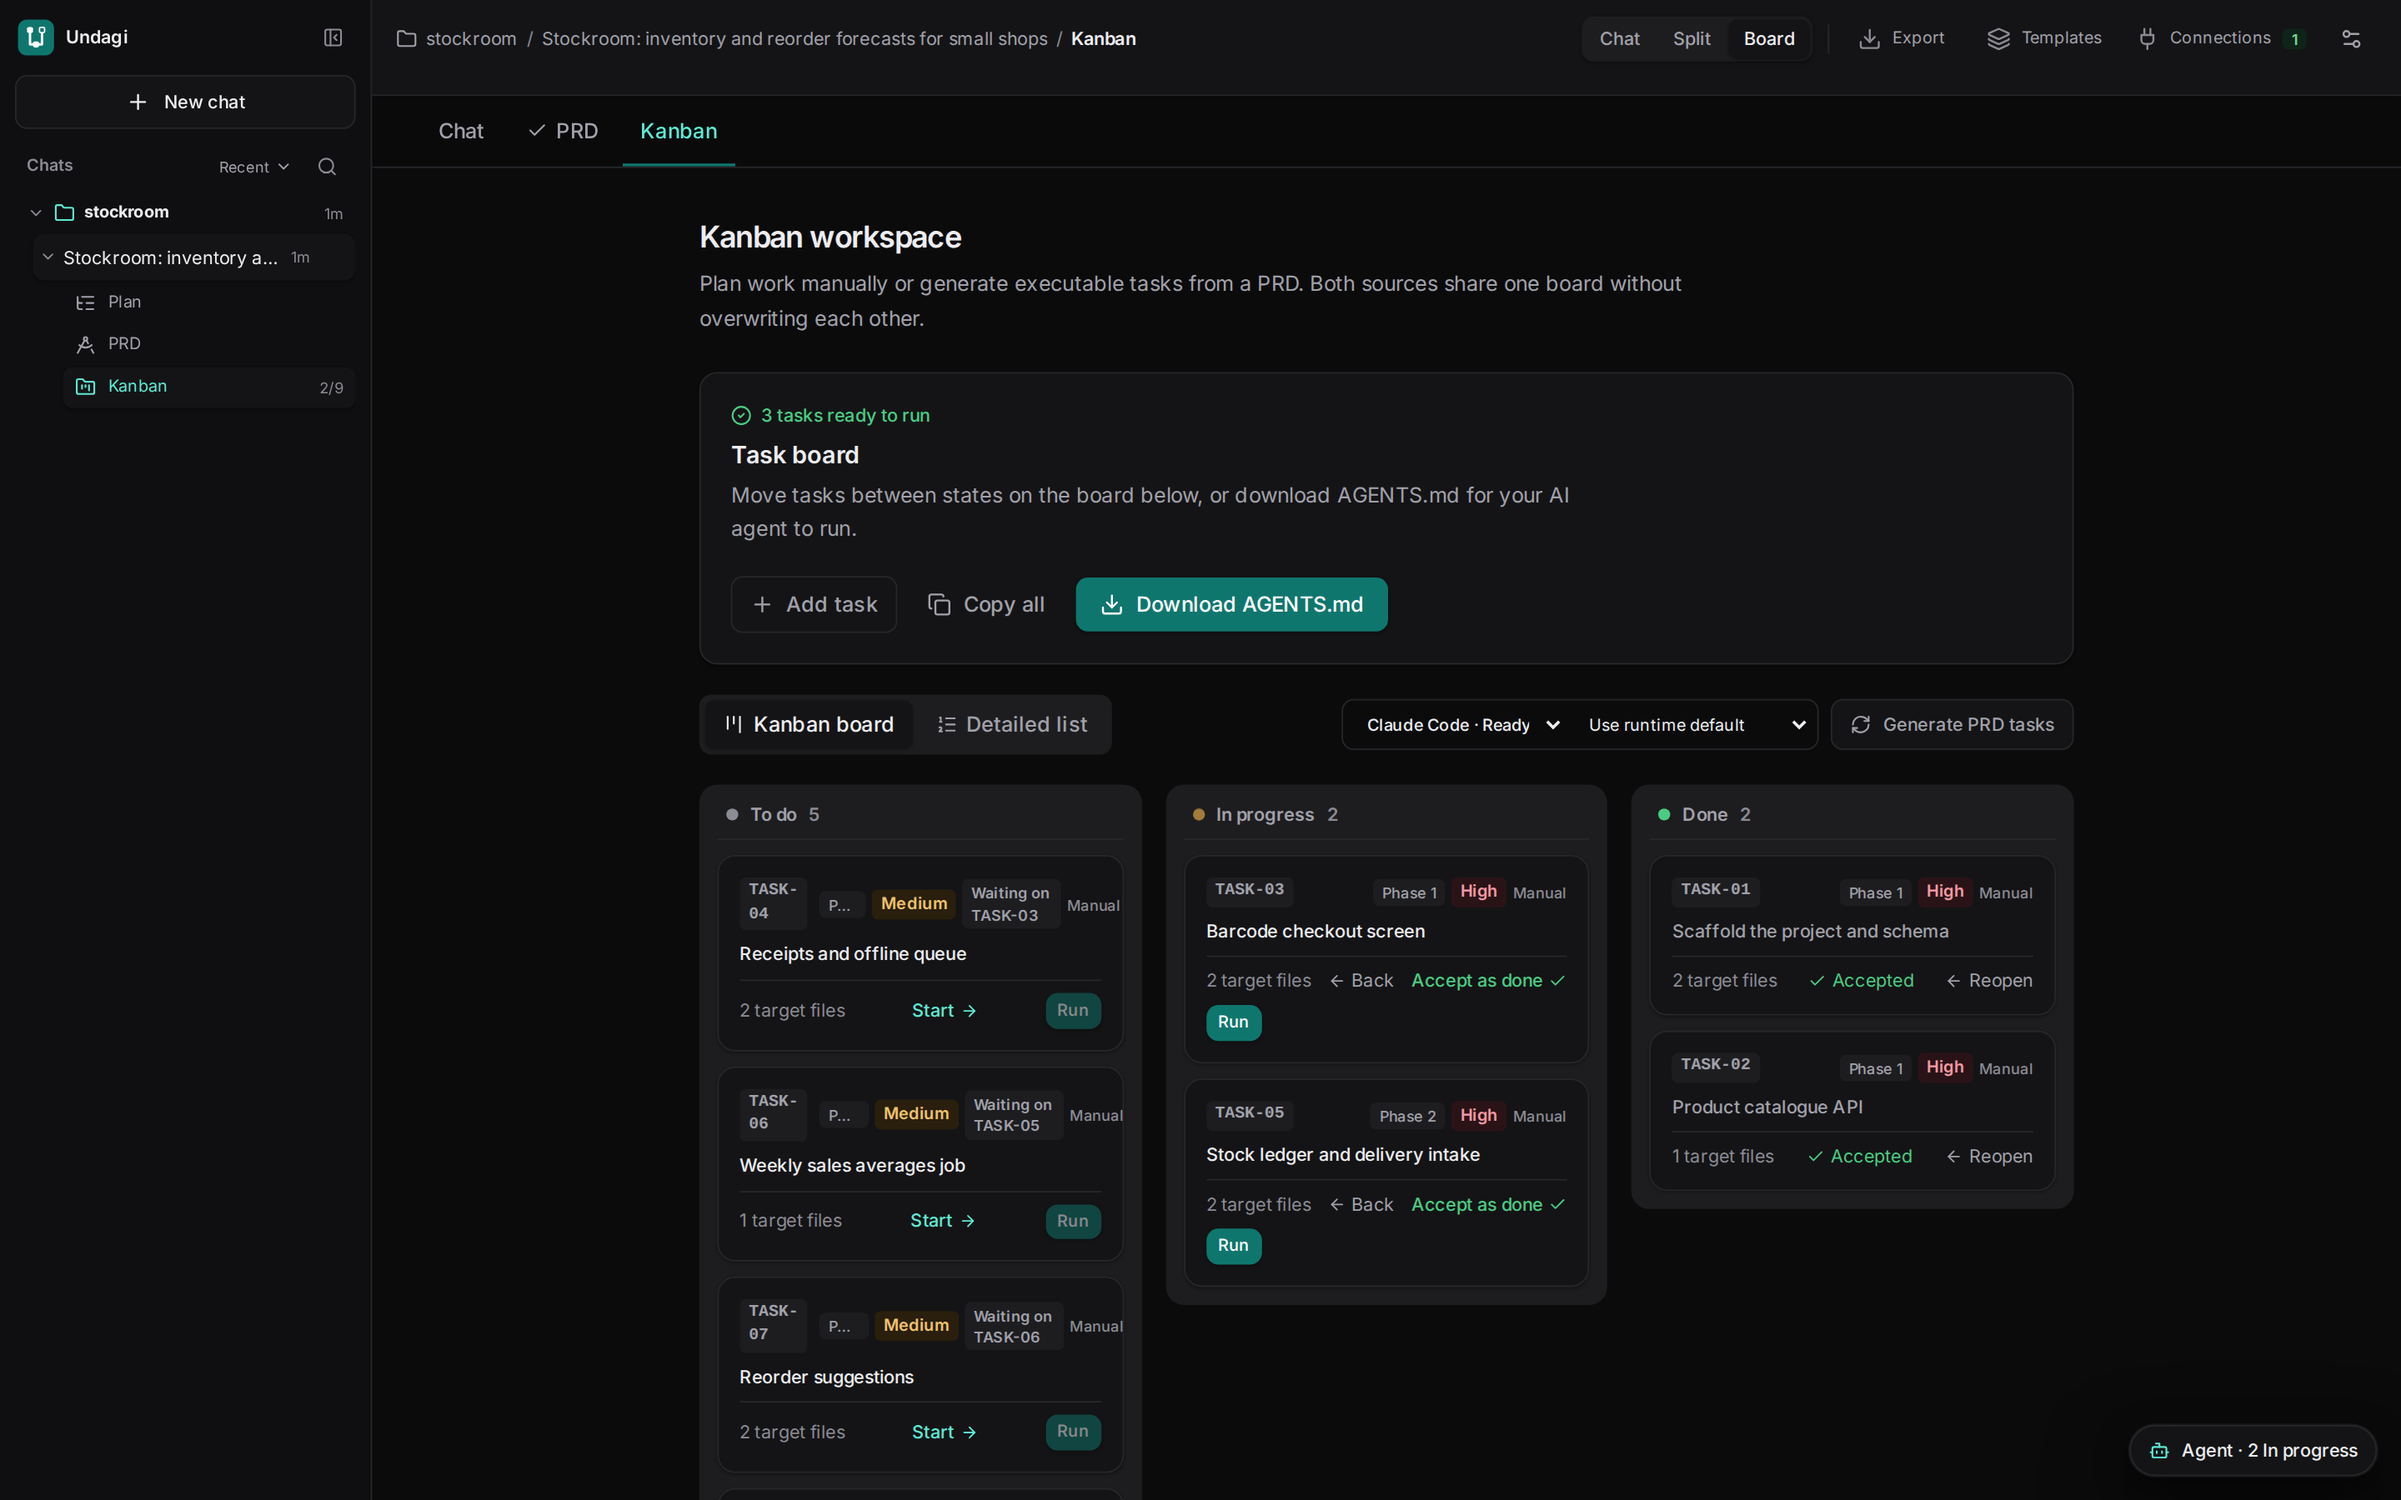
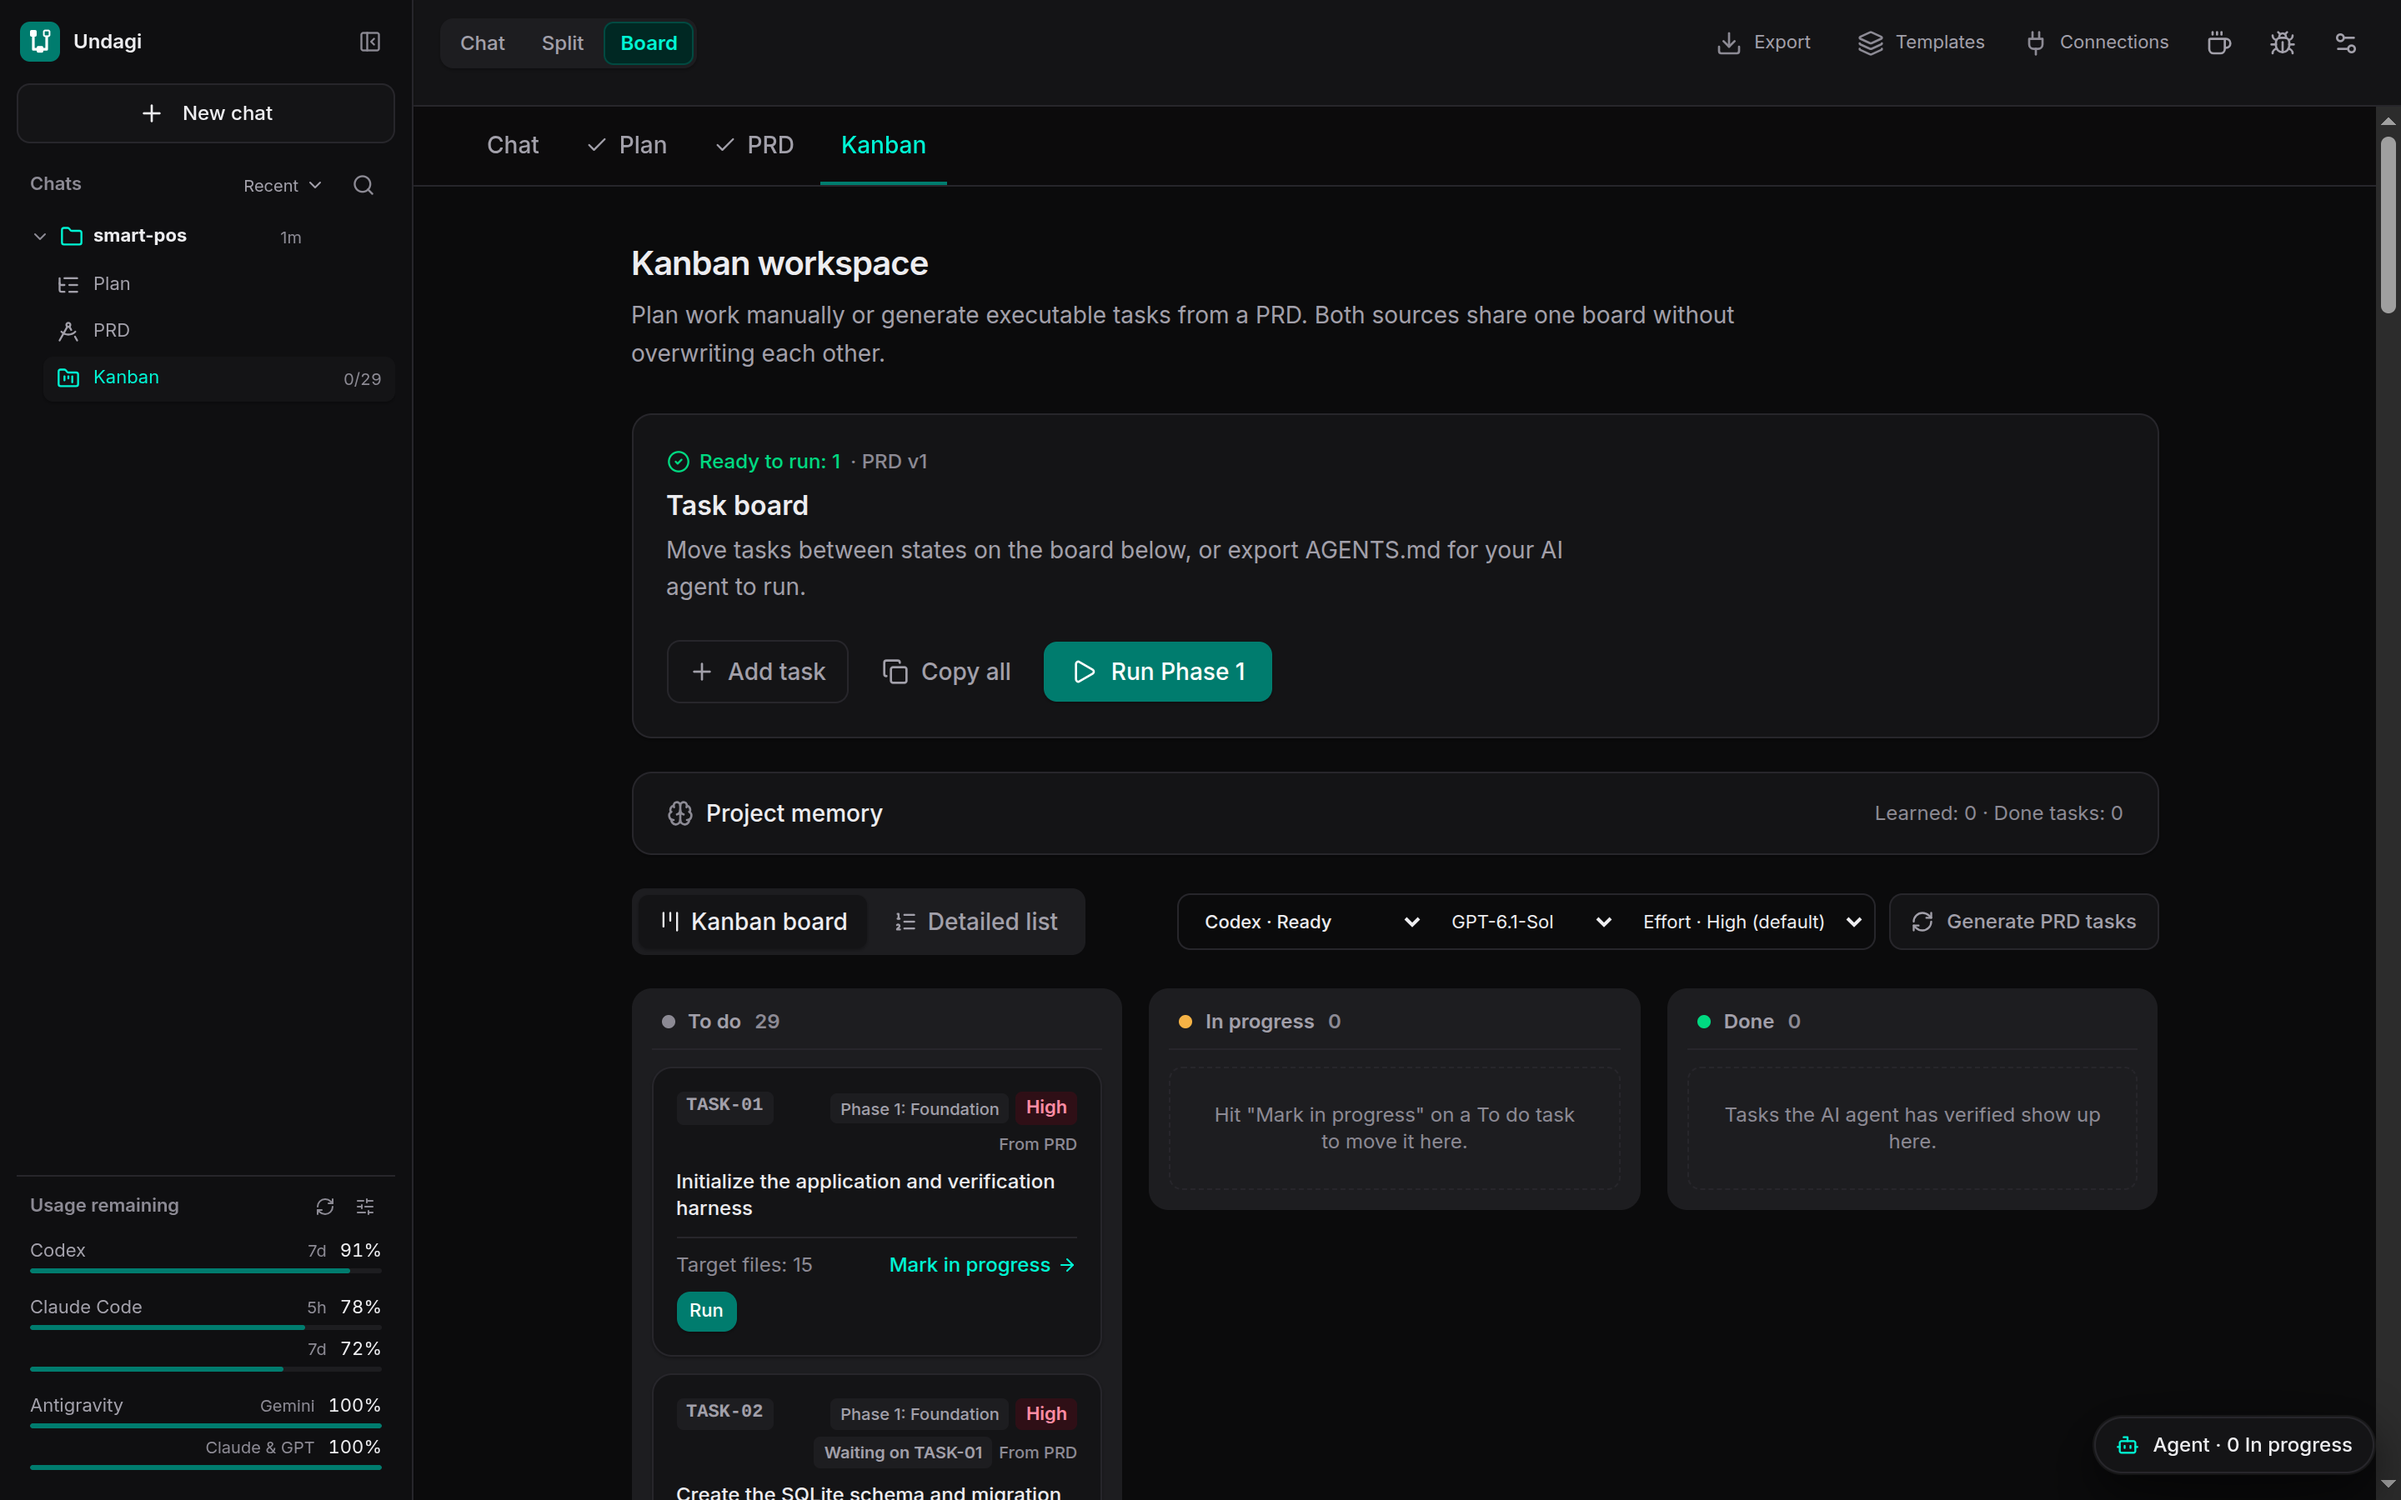
docs: show what changed since 1.0.3-beta on the landing page
Describes the PRD the way it is written now (goals and metrics, target users,
non-goals, acceptance criteria, risks), the phase-by-phase board run, and adds
a "Day to day" section: one project per folder shared by many chats, running a
phase, syncing the board without losing started cards, and the remaining usage
of each connected subscription. A card without a verify command is now
described as Unverified instead of saying Undagi never runs verification.

The four screenshots come from a real project generated with Codex (a small
shop POS: 29 tasks, Run Phase 1, the usage panel in the sidebar). The nav
links stay on one line and hide below 900 px; the release link points to
1.0.4-beta.

diff --git a/docs/index.html b/docs/index.html
@@ -111,7 +111,7 @@ nav.scrolled { border-bottom-color: var(--line); }
   box-shadow: var(--elev-1);
 }
 .nav-sp { flex: 1; }
-.nav-link { color: var(--muted); text-decoration: none; font-size: 14px; font-weight: 500; padding: 6px 2px; transition: color var(--dur) var(--ease); }
+.nav-link { color: var(--muted); text-decoration: none; font-size: 14px; font-weight: 500; padding: 6px 2px; white-space: nowrap; transition: color var(--dur) var(--ease); }
 .nav-link:hover { color: var(--ink); }
 .icon-btn {
   width: 34px; height: 34px; display: grid; place-items: center; cursor: pointer;
@@ -121,7 +121,8 @@ nav.scrolled { border-bottom-color: var(--line); }
 }
 .icon-btn:hover { color: var(--ink); transform: translateY(-1px); box-shadow: var(--elev-2); }
 .icon-btn:active { transform: translateY(0) scale(.97); }
-@media (max-width: 720px) { .nav-hide { display: none; } }
+/* Six section links fit from about 900px; below that only GitHub and the theme toggle stay. */
+@media (max-width: 900px) { .nav-hide { display: none; } }
 
 /* ---------- hero ---------- */
 header.hero { position: relative; padding: 88px 0 0; overflow: hidden; }
@@ -335,6 +336,7 @@ table.cmp { border-collapse: collapse; width: 100%; min-width: 760px; font-size:
     <a class="brand" href="#top"><span class="mark"><svg viewBox="0 0 100 100" width="22" height="22" fill="currentColor" aria-hidden="true"><path d="M30 25V73H70V35" fill="none" stroke="currentColor" stroke-width="8" stroke-linejoin="round"/><rect x="20" y="15" width="20" height="20" rx="5"/><rect x="40" y="63" width="20" height="20" rx="5"/><rect x="61.5" y="16.5" width="17" height="17" rx="4" fill="none" stroke="currentColor" stroke-width="5"/></svg></span> Undagi</a>
     <span class="nav-sp"></span>
     <a class="nav-link nav-hide" href="#how">How it works</a>
+    <a class="nav-link nav-hide" href="#daily">Day to day</a>
     <a class="nav-link nav-hide" href="#compare">Compare</a>
     <a class="nav-link nav-hide" href="#models">Models</a>
     <a class="nav-link nav-hide" href="#trust">Boundaries</a>
@@ -377,7 +379,7 @@ table.cmp { border-collapse: collapse; width: 100%; min-width: 760px; font-size:
     <div class="shot" id="heroShot">
       <img class="themed" data-light="assets/board-light.png" data-dark="assets/board-dark.png"
            src="assets/board-dark.png"
-           alt="Undagi kanban workspace: nine generated tasks across To do, In progress and Done, each with an ID, phase, priority and target file count, plus a Download AGENTS.md button."
+           alt="Undagi's board for a small-shop POS project: a Run Phase 1 button, project memory, and 29 generated tasks with IDs, phases, priorities and dependencies. The sidebar shows the folder's Plan, PRD and Kanban, and the remaining usage of Codex, Claude Code and Antigravity."
            width="2880" height="1800" />
     </div>
   </div>
@@ -426,12 +428,14 @@ table.cmp { border-collapse: collapse; width: 100%; min-width: 760px; font-size:
       <div class="step">
         <span class="idx">STEP 02</span>
         <h3>PRD</h3>
-        <p>The approved plan becomes a seven-point requirements document you can actually edit:</p>
+        <p>The approved plan becomes a PRD written the way product teams write one, sized to a first release:</p>
         <ul>
-          <li>Requirements and features by phase</li>
-          <li>User flow and architecture</li>
-          <li>Database schema and tech stack</li>
-          <li>Structured view, raw fields, or Markdown</li>
+          <li>Goals and success metrics, target users</li>
+          <li>Scope and release plan, with non-goals</li>
+          <li>Requirements as user stories with acceptance criteria</li>
+          <li>Assumptions, risks and open questions</li>
+          <li>For the coding agent: architecture, data model, tech stack</li>
+          <li>Edit it as a structured view, raw fields, or Markdown</li>
         </ul>
       </div>
       <div class="step">
@@ -442,10 +446,11 @@ table.cmp { border-collapse: collapse; width: 100%; min-width: 760px; font-size:
           <li>Stable ID, priority, phase</li>
           <li>Target files and dependencies</li>
           <li>Instructions and verification steps</li>
-          <li>Run it here: the card moves to Done or Blocked, with the agent's note</li>
+          <li>Run one card, or a whole phase with one button, in dependency order</li>
+          <li>The card moves to Done or Blocked, with the agent's note</li>
           <li>A verify command per card: Done is marked Verified once it exits 0, or Unverified when nothing checked it</li>
           <li>Each run starts with what earlier tasks left behind: their notes and the facts agents learned</li>
-          <li>Export as <code>AGENTS.md</code></li>
+          <li>Export <code>AGENTS.md</code>, the plan, the PRD or a handoff bundle: one file, or several as a .zip</li>
         </ul>
       </div>
     </div>
@@ -453,10 +458,67 @@ table.cmp { border-collapse: collapse; width: 100%; min-width: 760px; font-size:
     <figure>
       <div class="shot"><img class="themed" data-light="assets/plan-light.png" data-dark="assets/plan-dark.png"
            src="assets/plan-light.png"
-           alt="The generated plan for a small-shop inventory app: a summary, a model picker with a Continue to the PRD button, and an interactive feature-structure diagram."
+           alt="The generated plan for a small-shop POS and inventory app: a first-release summary, a model picker with a Continue to the PRD button, and an interactive feature-structure diagram."
            width="2880" height="1800" loading="lazy" /></div>
       <figcaption>The plan step — an editable summary and feature structure you review before the PRD.</figcaption>
     </figure>
+  </div>
+</section>
+
+<section id="daily">
+  <div class="wrap">
+    <p class="kicker">Day to day</p>
+    <h2>Built for coming back tomorrow.</h2>
+    <p class="section-lede">
+      A plan is only useful if the next session can pick it up. Undagi keeps the project with the
+      folder, runs the board a phase at a time, and lets you change the plan without losing what is
+      already done.
+    </p>
+
+    <div class="grid2">
+      <div class="tile">
+        <h3>One folder, one project, any number of chats</h3>
+        <p>
+          A folder holds one project: its plan, PRD, board and memory. Every chat you open in it reads
+          the same board and memory, so tomorrow's chat carries on with the phase left unfinished.
+          Deleting a chat removes its messages; the project stays until you delete it on purpose.
+        </p>
+      </div>
+      <div class="tile">
+        <h3>Run a phase, not a prompt</h3>
+        <p>
+          <b>Run Phase 1</b> runs that phase's To do cards one at a time, each once its dependencies are
+          done, each in its own session with retries and its verify command. The run stops at the first
+          card that does not end Done, so nothing builds on a failure, and you check the phase before
+          the next one starts.
+        </p>
+        <p>
+          Ask the chat to work on the tasks and it starts the same run, because every chat turn sees the
+          board with its cards, status and dependencies.
+        </p>
+      </div>
+      <div class="tile">
+        <h3>Change the plan without losing the work</h3>
+        <p>
+          Syncing the board to a new PRD replaces only cards still in To do. A card that is running or
+          Done keeps its note, its Verified label and its place, and so does any card you added. The
+          new tasks are told which cards stay, so they do not repeat that work. You see how many cards
+          are replaced and kept before anything changes.
+        </p>
+      </div>
+      <div class="tile">
+        <h3>See what is left of your plan</h3>
+        <p>
+          The sidebar shows the remaining usage of each subscription you have connected: Claude Code's
+          five-hour and weekly windows, Codex's limits, and Antigravity's per model group. Each is read
+          through that CLI's own usage request, which sends no prompt and spends no quota. A read that
+          fails keeps showing the last one, marked as not refreshed.
+        </p>
+        <div class="chips">
+          <span class="chip">Claude Code</span><span class="chip">Codex</span><span class="chip">Antigravity</span>
+        </div>
+      </div>
+    </div>
   </div>
 </section>
 
@@ -502,7 +564,7 @@ table.cmp { border-collapse: collapse; width: 100%; min-width: 760px; font-size:
         <li>Packaged installers are for Windows, Linux and Apple Silicon Macs, and none carries a verified publisher signature; on a Mac the first launch needs Open Anyway in Privacy &amp; Security.</li>
         <li>It plans a new project from an idea. It does not analyse an existing codebase to plan changes to it.</li>
         <li>No parallel agents, git worktrees or pull-request loop.</li>
-        <li>A task counts as Done when the agent says so. Undagi does not run the verification steps itself.</li>
+        <li>A card without a verify command counts as Done when the agent says so; it is labelled Unverified.</li>
         <li>Approvals and path checks are not an OS sandbox. &ldquo;Full access&rdquo; means you trust the agent.</li>
       </ul>
     </div>
@@ -650,7 +712,7 @@ table.cmp { border-collapse: collapse; width: 100%; min-width: 760px; font-size:
       <p>
         Installers for Windows (<code>.exe</code>), Linux (<code>.AppImage</code>, <code>.deb</code>) and
         Apple Silicon Macs (<code>.dmg</code>) are on the
-        <a href="https://github.com/CharisChakim/undagi/releases/tag/v1.0.3-beta">v1.0.3-beta release</a>.
+        <a href="https://github.com/CharisChakim/undagi/releases/tag/v1.0.4-beta">v1.0.4-beta release</a>.
         They bundle their own runtime, so you do not need Node.
       </p>
       <p>
